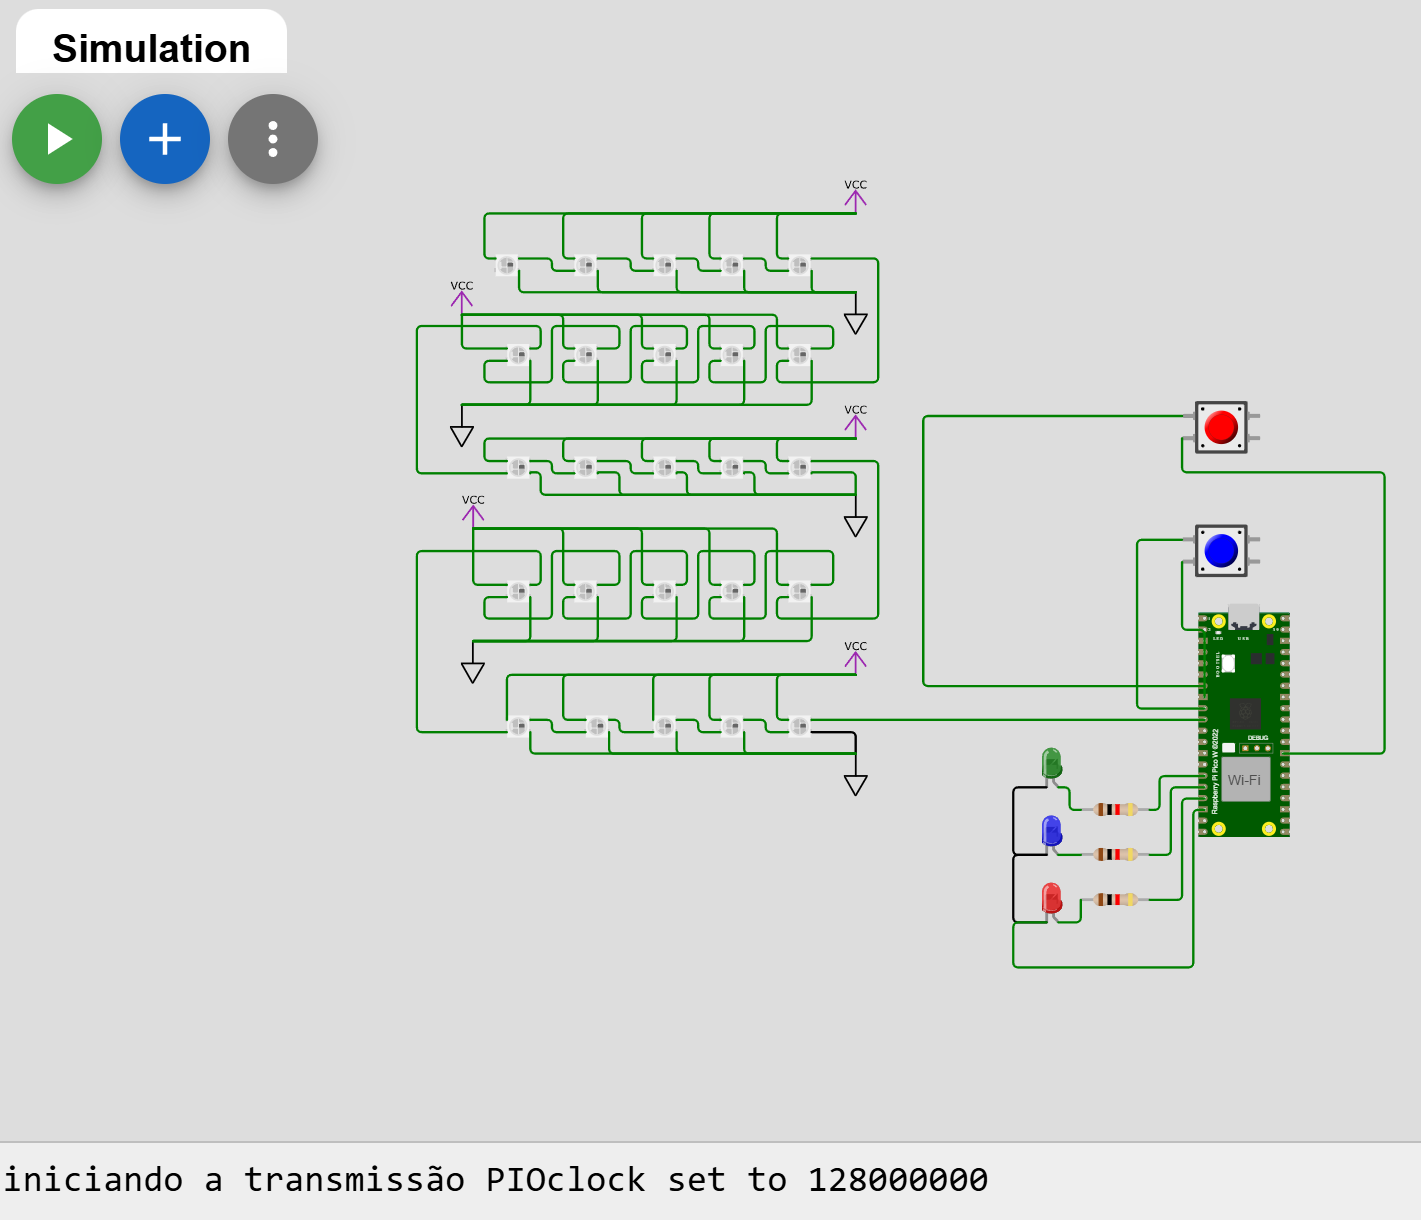
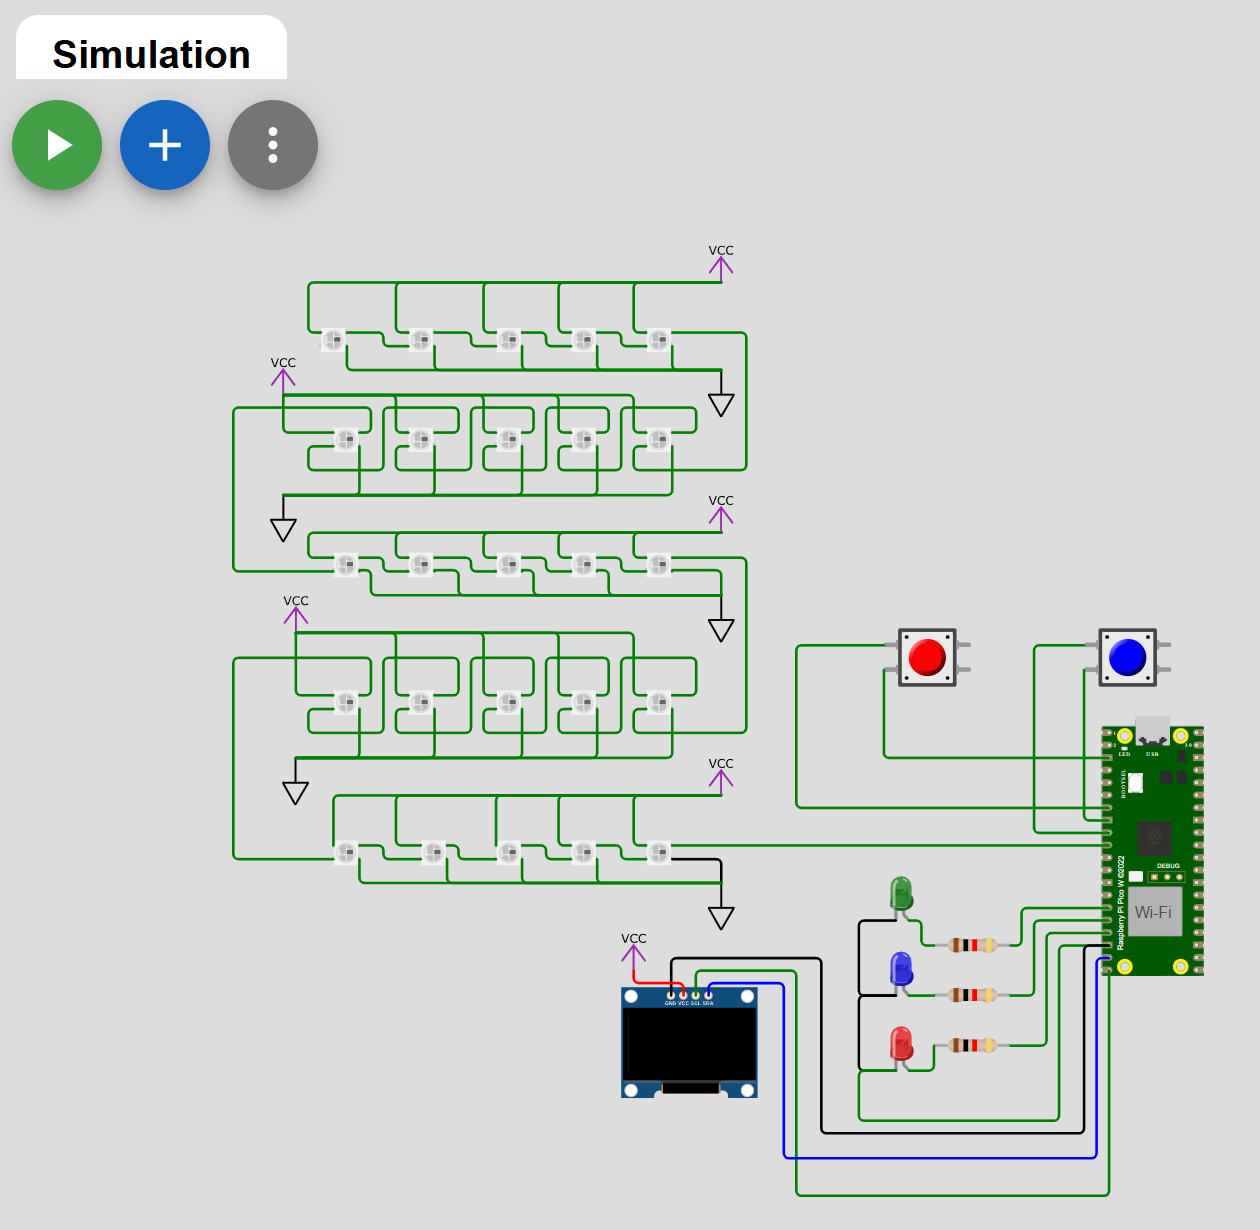
Pequenas correções no readme

diff --git a/README.md b/README.md
@@ -1,16 +1,15 @@
-# EmbarcaTech Tarefa Aula Sincrona 27/01/2025
 
 
-<img width=100% src="https://capsule-render.vercel.app/api?type=waving&color=A6A6A6&height=120&section=header"/>
-<h1 align="center">Embarcatec | Tarefa Aula Sincrona 27/01/2025</h1>
+<img width=100% src="https://capsule-render.vercel.app/api?type=waving&color=FFB4A2&height=120&section=header"/>
+<h1 align="center">Embarcatec | Tarefa Aula Sincrona 03/02/2025</h1>
 
 <div align="center">  
-  <img width=40% src="http://img.shields.io/static/v1?label=STATUS&message=FINALIZADO&color=A6A6A6&style=for-the-badge"/>
+  <img width=40% src="http://img.shields.io/static/v1?label=STATUS&message=FINALIZADO&color=FFB4A2&style=for-the-badge"/>
 </div>
 
 ## Objetivo do Projeto
 
-Projeto para Placa Bitdoglab (Raspberry Pico W) de um contador que exibe na matriz WS2812, números de 0 a 9, e os incrementa cada vez que o botão A da placa é acionado e descrementa sempre que o botão B da placa é acionado. Uso do debounce implementado para os botões.
+Projeto para Placa Bitdoglab (Raspberry Pico W) exibe na matriz WS2812 e no display SSD1306, números de 0 a 9, e letras maúsculas e minúsculas no display SSD1306 ao enviar caracteres via serial usando o teclado. Além disso, ao clicar o botão A a cor verde do led central é alternada entre liga/desliga e ao quando botão B da placa é acionado a cor azul é alternada entre liga/desliga. Uso do debounce implementado para os botões.
 
 
 ## 🗒 Lista de requisitos
@@ -20,8 +19,9 @@ Projeto para Placa Bitdoglab (Raspberry Pico W) de um contador que exibe na matr
     - 2 Push buttons;
     - Protoboard;
     - Fios e jumpers; 
-    - 1 led vermelho;
-    - 1 Resistor 1kΩ;
+    - 3 leds vermelho, verde e azul;
+    - 3 Resistores 1kΩ;
+    - Display SSD1306;
     - Microcontrolador Raspberry Pi Pico W; 
     - Matriz de LEDs Coloridos (LED-RGB 5x5 WS2812);
 
@@ -39,8 +39,8 @@ Siga os passos abaixo para clonar o repositório, importar no VS Code usando a e
 1. **Clone o repositório para sua máquina local**  
    Abra o terminal e execute os comandos abaixo:
    ```bash
-   git clone https://github.com/alexsami-lopes/EmbarcaTech-Tarefa-Aula-Sincrona-27-01-2025.git
-   cd EmbarcaTech-Tarefa-Aula-Sincrona-27-01-2025
+   git clone https://github.com/alexsami-lopes/EmbarcaTech-Tarefa2-Aula-Sincrona-03-02-2025.git
+   cd EmbarcaTech-Tarefa2-Aula-Sincrona-03-02-2025
 
 2. **Abra o VS Code e instale a extensão "Raspberry Pi Pico Project" (caso não já a tenha instalada)**
  - No VS Code, vá até "Extensões" (Ctrl+Shift+X)
@@ -71,11 +71,22 @@ Siga os passos abaixo para clonar o repositório, importar no VS Code usando a e
 
 ## 🔧 Funcionalidades Implementadas:
 
-1. O LED vermelho do LED RGB pisca continuamente 5 vezes por segundo.
-2. O botão A incrementa o número exibido na matriz de LEDs cada vez que for pressionado.
-3. O botão B decrementa o número exibido na matriz de LEDs cada vez que for pressionado.
-4. Os LEDs WS2812 foram ser usados para criar efeitos visuais representando números de 0 a 9.
-• Formatação fixa: Cada número é exibido na matriz em um formato fixo, como caracteres em estilo digital (ex.: segmentos iluminados que formem o número).
+1. Modificação da Biblioteca font.h • Foram adicionados caracteres minúsculos à biblioteca font.h.
+2. Entrada de caracteres via PC
+• Utilizado o Serial Monitor do VS Code para digitar os caracteres.
+• Cada caractere digitado no Serial Monitor exibe no display SSD1306.
+Observação: Apenas um caractere será enviado de cada vez.
+• Quando um número entre 0 e 9 for digitado, um símbolo correspondente ao número é exibido, também, na matriz 5x5 WS2812.
+3. Interação com o Botão A
+• Pressionar o botão A alterna o estado do LED RGB Verde (ligado/desligado).
+• A operação é registrada de duas formas:
+o Uma mensagem informativa sobre o estado do LED é exibida no display SSD1306
+o Um texto descritivo sobre a operação é enviado ao Serial Monitor.
+4. Interação com o Botão B
+• Pressionar o botão A alterna o estado do LED RGB Azul (ligado/desligado).
+• A operação é registrada de duas formas:
+o Uma mensagem informativa sobre o estado do LED é exibida no display SSD1306
+o Um texto descritivo sobre a operação é enviado ao Serial Monitor.
 
 ## 💻 Desenvolvedor
  
@@ -96,7 +107,7 @@ Siga os passos abaixo para clonar o repositório, importar no VS Code usando a e
     
 <figcaption>
 
-**Figura 1** - Demo do Projeto no Wokwi.com - Acessível em: https://wokwi.com/projects/421810650360925185
+**Figura 1** - Demo do Projeto no Wokwi.com
     </figcaption>
   </figure>
 </div>
@@ -105,7 +116,7 @@ Siga os passos abaixo para clonar o repositório, importar no VS Code usando a e
 ## 🎥 Demonstração na Placa (Video): 
 
 <div align="center">
-  <a href="https://youtu.be/csX0XGo6aso" target="_blank">
+  <a href="https://youtu.be/XNgZfNbbnKY" target="_blank">
     <img src="images/Demo_Placa_Video.png" width="500px">
   </a>
 </div>
